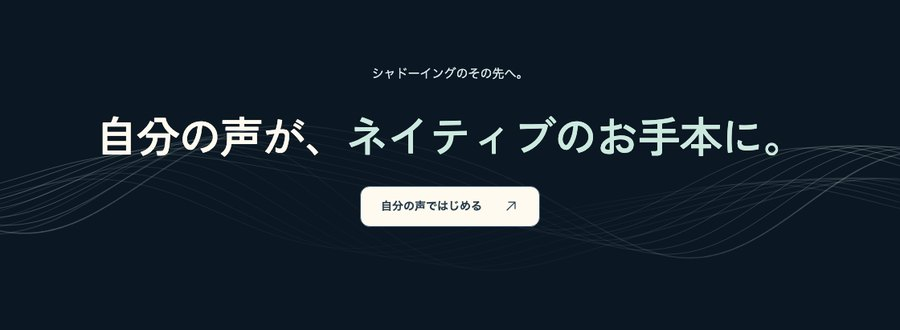
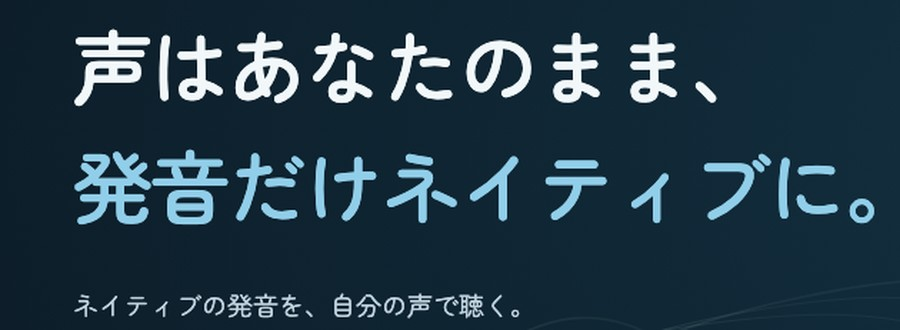
実績：Lanclo の画像を新デザイン（声はあなたのまま、発音だけネイティブに。）に差し替え、alt と App Store の記載を更新（CSS v=20261023）

diff --git a/works.html b/works.html
@@ -14,7 +14,7 @@
 <link rel="preconnect" href="https://fonts.googleapis.com">
 <link rel="preconnect" href="https://fonts.gstatic.com" crossorigin>
 <link href="https://fonts.googleapis.com/css2?family=Noto+Sans+JP:wght@400;700;800;900&amp;family=Outfit:wght@600;800;900&amp;display=swap" rel="stylesheet">
-<link rel="stylesheet" href="assets/style.css?v=20261019f">
+<link rel="stylesheet" href="assets/style.css?v=20261023">
 </head>
 <body>
 <div class="topbar"></div>
@@ -75,7 +75,7 @@
 
     <div class="h3s" id="lanclo"><h2>Lanclo（発音練習アプリ）</h2><p>自分の声が、ネイティブのお手本になる発音練習アプリ。海外で暮らし、何度も発音を直された経験から作りました。英語のほか日本語を含む17言語に対応し、Web 版を先行公開しています</p></div>
     <div class="grid g2 lp-grid">
-      <figure class="lp-shot"><img src="img/lanclo_lp.jpg" alt="Lanclo の紹介ページ。濃紺の背景に「自分の声が、ネイティブのお手本に。」の見出しと、声を録音する・自分の声のお手本に・聴いて発音する、の3ステップ" loading="lazy"><figcaption>Lanclo の紹介ページ（日本語・英語）</figcaption></figure>
+      <figure class="lp-shot"><img src="img/lanclo_lp.jpg" alt="Lanclo の紹介ページ。濃紺の背景に「声はあなたのまま、発音だけネイティブに。」の見出しと、発音練習とフィードバック画面を映した2台のスマートフォン、ヘッドホンをつけたマスコット" loading="lazy"><figcaption>Lanclo の紹介ページ（日本語・英語）</figcaption></figure>
       <div class="box lp-box">
         <ul>
           <li><b>自分の声が、お手本になります。</b>声を一度登録すると、AI が声の個性はそのままに、目指す発音のお手本を作ります。自分に似た声のお手本を探さなくても、自分の声で聴き比べながら練習できます。</li>
@@ -87,7 +87,7 @@
     </div>
     <div class="tt-line">
       <a class="btn sm" href="https://lanclo.app/lp/?lang=ja" target="_blank" rel="noopener">紹介ページを見る（7日間無料）</a>
-      <span>Web アプリを先行公開中で、App Store 版は近日リリース予定です。</span>
+      <span>Web アプリを先行公開中です。App Store 版は事前登録を受け付けています。</span>
     </div>
 
     <div class="h3s"><h2>すでに形にしたもの</h2><p>公開しているものと、組んでいる会社です。それぞれ実物をご覧いただけます</p></div>
@@ -103,7 +103,7 @@
         <span class="to">紹介ページを見る</span>
       </a>
       <a class="card" href="https://lanclo.app/lp/?lang=ja" target="_blank" rel="noopener">
-        <div class="thumb"><img src="img/lanclo_card.jpg" alt="Lanclo の紹介ページの見出し「自分の声が、ネイティブのお手本に。」" loading="lazy"></div>
+        <div class="thumb"><img src="img/lanclo_card.jpg" alt="Lanclo の紹介ページの見出し「声はあなたのまま、発音だけネイティブに。」" loading="lazy"></div>
         <div class="tag">アプリ</div><h3>Lanclo（発音練習アプリ）</h3><p>自分の声がネイティブのお手本になる発音練習アプリ。英語のほか日本語を含む17言語に対応。苦手な音の分析から次の練習文まで AI が用意します。Web 版を先行公開中（7日間無料）。</p>
         <span class="to">紹介ページを見る</span>
       </a>

diff --git a/learners.html b/learners.html
@@ -14,7 +14,7 @@
 <link rel="preconnect" href="https://fonts.googleapis.com">
 <link rel="preconnect" href="https://fonts.gstatic.com" crossorigin>
 <link href="https://fonts.googleapis.com/css2?family=Noto+Sans+JP:wght@400;700;800;900&amp;family=Outfit:wght@600;800;900&amp;display=swap" rel="stylesheet">
-<link rel="stylesheet" href="assets/style.css?v=20261019f">
+<link rel="stylesheet" href="assets/style.css?v=20261023">
 <noscript><style>.reveal{opacity:1;transform:none}.tako-follower{display:none}</style></noscript>
 </head>
 <body class="en-body">

diff --git a/roadmap.html b/roadmap.html
@@ -14,7 +14,7 @@
 <link rel="preconnect" href="https://fonts.googleapis.com">
 <link rel="preconnect" href="https://fonts.gstatic.com" crossorigin>
 <link href="https://fonts.googleapis.com/css2?family=Noto+Sans+JP:wght@400;700;800;900&amp;family=Outfit:wght@600;800;900&amp;display=swap" rel="stylesheet">
-<link rel="stylesheet" href="assets/style.css?v=20261019f">
+<link rel="stylesheet" href="assets/style.css?v=20261023">
 </head>
 <body class="rp">
 <div class="topbar"></div>

diff --git a/about.html b/about.html
@@ -14,7 +14,7 @@
 <link rel="preconnect" href="https://fonts.googleapis.com">
 <link rel="preconnect" href="https://fonts.gstatic.com" crossorigin>
 <link href="https://fonts.googleapis.com/css2?family=Noto+Sans+JP:wght@400;700;800;900&amp;family=Outfit:wght@600;800;900&amp;display=swap" rel="stylesheet">
-<link rel="stylesheet" href="assets/style.css?v=20261019f">
+<link rel="stylesheet" href="assets/style.css?v=20261023">
 </head>
 <body>
 <div class="topbar"></div>

diff --git a/contact.html b/contact.html
@@ -14,7 +14,7 @@
 <link rel="preconnect" href="https://fonts.googleapis.com">
 <link rel="preconnect" href="https://fonts.gstatic.com" crossorigin>
 <link href="https://fonts.googleapis.com/css2?family=Noto+Sans+JP:wght@400;700;800;900&amp;family=Outfit:wght@600;800;900&amp;display=swap" rel="stylesheet">
-<link rel="stylesheet" href="assets/style.css?v=20261019f">
+<link rel="stylesheet" href="assets/style.css?v=20261023">
 </head>
 <body>
 <div class="topbar"></div>

diff --git a/index.html b/index.html
@@ -14,7 +14,7 @@
 <link rel="preconnect" href="https://fonts.googleapis.com">
 <link rel="preconnect" href="https://fonts.gstatic.com" crossorigin>
 <link href="https://fonts.googleapis.com/css2?family=Noto+Sans+JP:wght@400;700;800;900&amp;family=Outfit:wght@600;800;900&amp;display=swap" rel="stylesheet">
-<link rel="stylesheet" href="assets/style.css?v=20261019f">
+<link rel="stylesheet" href="assets/style.css?v=20261023">
 </head>
 <body>
 <div class="topbar"></div>

diff --git a/schools.html b/schools.html
@@ -14,7 +14,7 @@
 <link rel="preconnect" href="https://fonts.googleapis.com">
 <link rel="preconnect" href="https://fonts.gstatic.com" crossorigin>
 <link href="https://fonts.googleapis.com/css2?family=Noto+Sans+JP:wght@400;700;800;900&amp;family=Outfit:wght@600;800;900&amp;display=swap" rel="stylesheet">
-<link rel="stylesheet" href="assets/style.css?v=20261019f">
+<link rel="stylesheet" href="assets/style.css?v=20261023">
 </head>
 <body>
 <div class="topbar"></div>

diff --git a/sns.html b/sns.html
@@ -14,7 +14,7 @@
 <link rel="preconnect" href="https://fonts.googleapis.com">
 <link rel="preconnect" href="https://fonts.gstatic.com" crossorigin>
 <link href="https://fonts.googleapis.com/css2?family=Noto+Sans+JP:wght@400;700;800;900&amp;family=Outfit:wght@600;800;900&amp;display=swap" rel="stylesheet">
-<link rel="stylesheet" href="assets/style.css?v=20261019f">
+<link rel="stylesheet" href="assets/style.css?v=20261023">
 </head>
 <body>
 <div class="topbar"></div>

diff --git a/teaching.html b/teaching.html
@@ -14,7 +14,7 @@
 <link rel="preconnect" href="https://fonts.googleapis.com">
 <link rel="preconnect" href="https://fonts.gstatic.com" crossorigin>
 <link href="https://fonts.googleapis.com/css2?family=Noto+Sans+JP:wght@400;700;800;900&amp;family=Outfit:wght@600;800;900&amp;display=swap" rel="stylesheet">
-<link rel="stylesheet" href="assets/style.css?v=20261019f">
+<link rel="stylesheet" href="assets/style.css?v=20261023">
 </head>
 <body>
 <div class="topbar"></div>

diff --git a/tokushoho.html b/tokushoho.html
@@ -12,7 +12,7 @@
 <link rel="preconnect" href="https://fonts.googleapis.com">
 <link rel="preconnect" href="https://fonts.gstatic.com" crossorigin>
 <link href="https://fonts.googleapis.com/css2?family=Noto+Sans+JP:wght@400;700;800;900&amp;family=Outfit:wght@600;800;900&amp;display=swap" rel="stylesheet">
-<link rel="stylesheet" href="assets/style.css?v=20261019f">
+<link rel="stylesheet" href="assets/style.css?v=20261023">
 </head>
 <body>
 <div class="topbar"></div>
